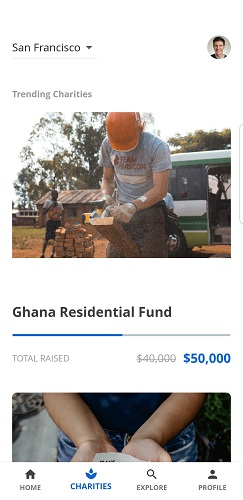
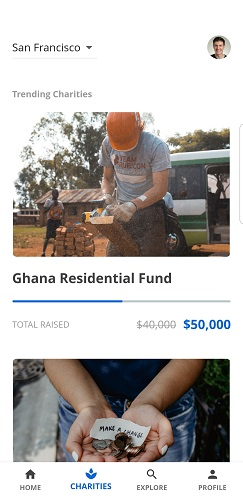
added charities screenshot

diff --git a/lib/view/home/charities_list.dart b/lib/view/home/charities_list.dart
@@ -104,6 +104,8 @@ class CharitiesList extends StatelessWidget {
   }
 
   Widget _image(String imageItem) {
+
+    BoxFit fit = _listImageHeight == 160 ? BoxFit.fitWidth : BoxFit.fitHeight;
     return Container(
       height: _listImageHeight,
       child: Padding(
@@ -112,7 +114,7 @@ class CharitiesList extends StatelessWidget {
           decoration: BoxDecoration(
               borderRadius: BorderRadius.circular(7),
               image: DecorationImage(
-                fit: BoxFit.fitWidth,
+                fit: fit,
                 alignment: FractionalOffset.topCenter,
                 image: AssetImage(imageItem),
               )),

diff --git a/lib/view/charities/charities_page.dart b/lib/view/charities/charities_page.dart
@@ -24,7 +24,7 @@ class _CharitiesState extends State<CharitiesPage> {
       child: Padding(
         padding: const EdgeInsets.only(top: 28),
         child: Column(
-            children: <Widget>[_topRow() , _listTitle(), Expanded(child : CharitiesList(300, CharityModel.charities2))]),
+            children: <Widget>[_topRow() , _listTitle(), Expanded(child : CharitiesList(250, CharityModel.charities2))]),
       ),
     );
   }
